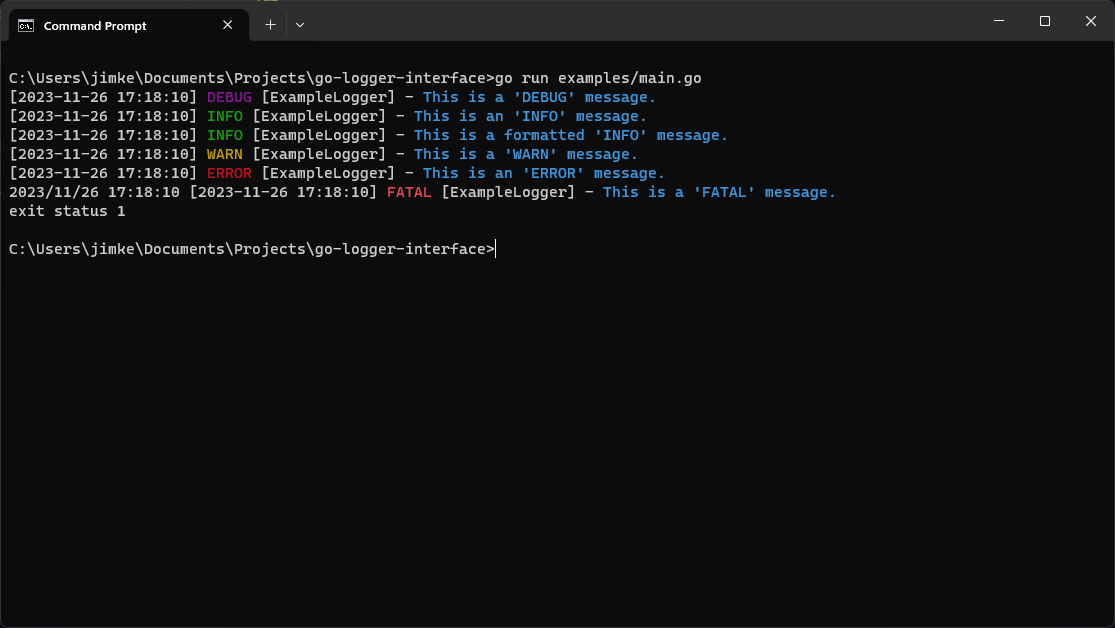
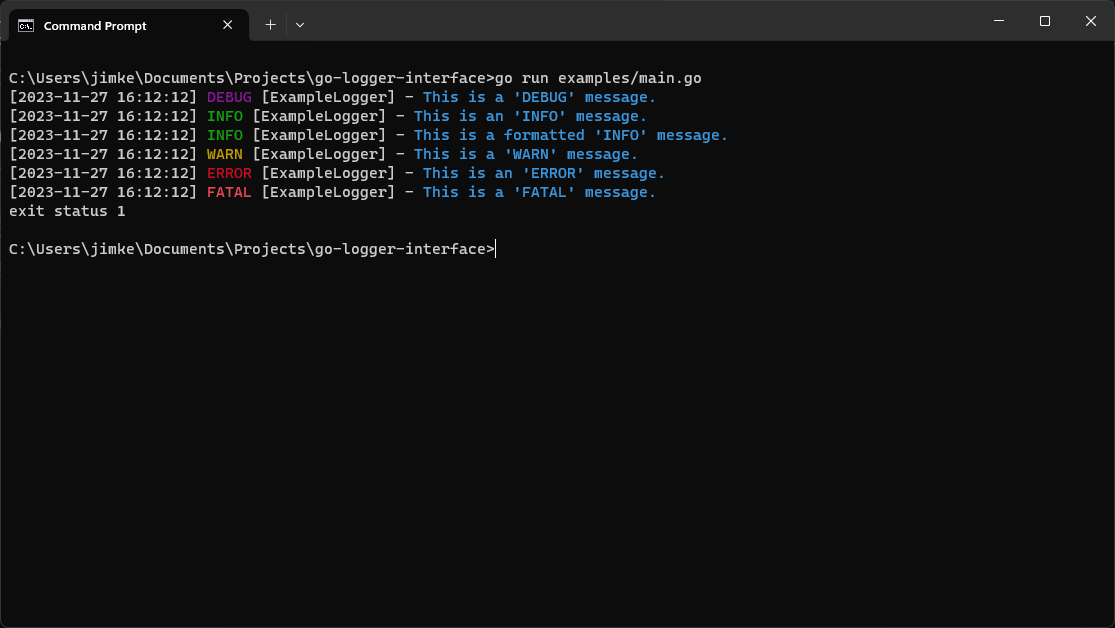
bugfix: replaced log.Fatalf with an os.Exit to remove double date print

Changed region(s): [[0.0, 0.1513, 0.6099, 0.3328], [0.6404, 0.3025, 0.7623, 0.3328]]

diff --git a/logger.go b/logger.go
@@ -2,7 +2,7 @@ package logger
 
 import (
 	"fmt"
-	"log"
+	"os"
 	"time"
 
 	"github.com/fatih/color"
@@ -75,10 +75,8 @@ func (l *LoggerInterface) LogMessage(message, severity string) {
 
 	logTime := time.Now().Format("2006-01-02 15:04:05")
 
-	if severity == "FATAL" {
-		log.Fatalf(base, logTime, formatSeverity(severity), l.Prefix, cyan(message))
-		return
-	}
-
 	fmt.Printf(base, logTime, formatSeverity(severity), l.Prefix, cyan(message))
+	if severity == "FATAL" {
+		os.Exit(1)
+	}
 }
